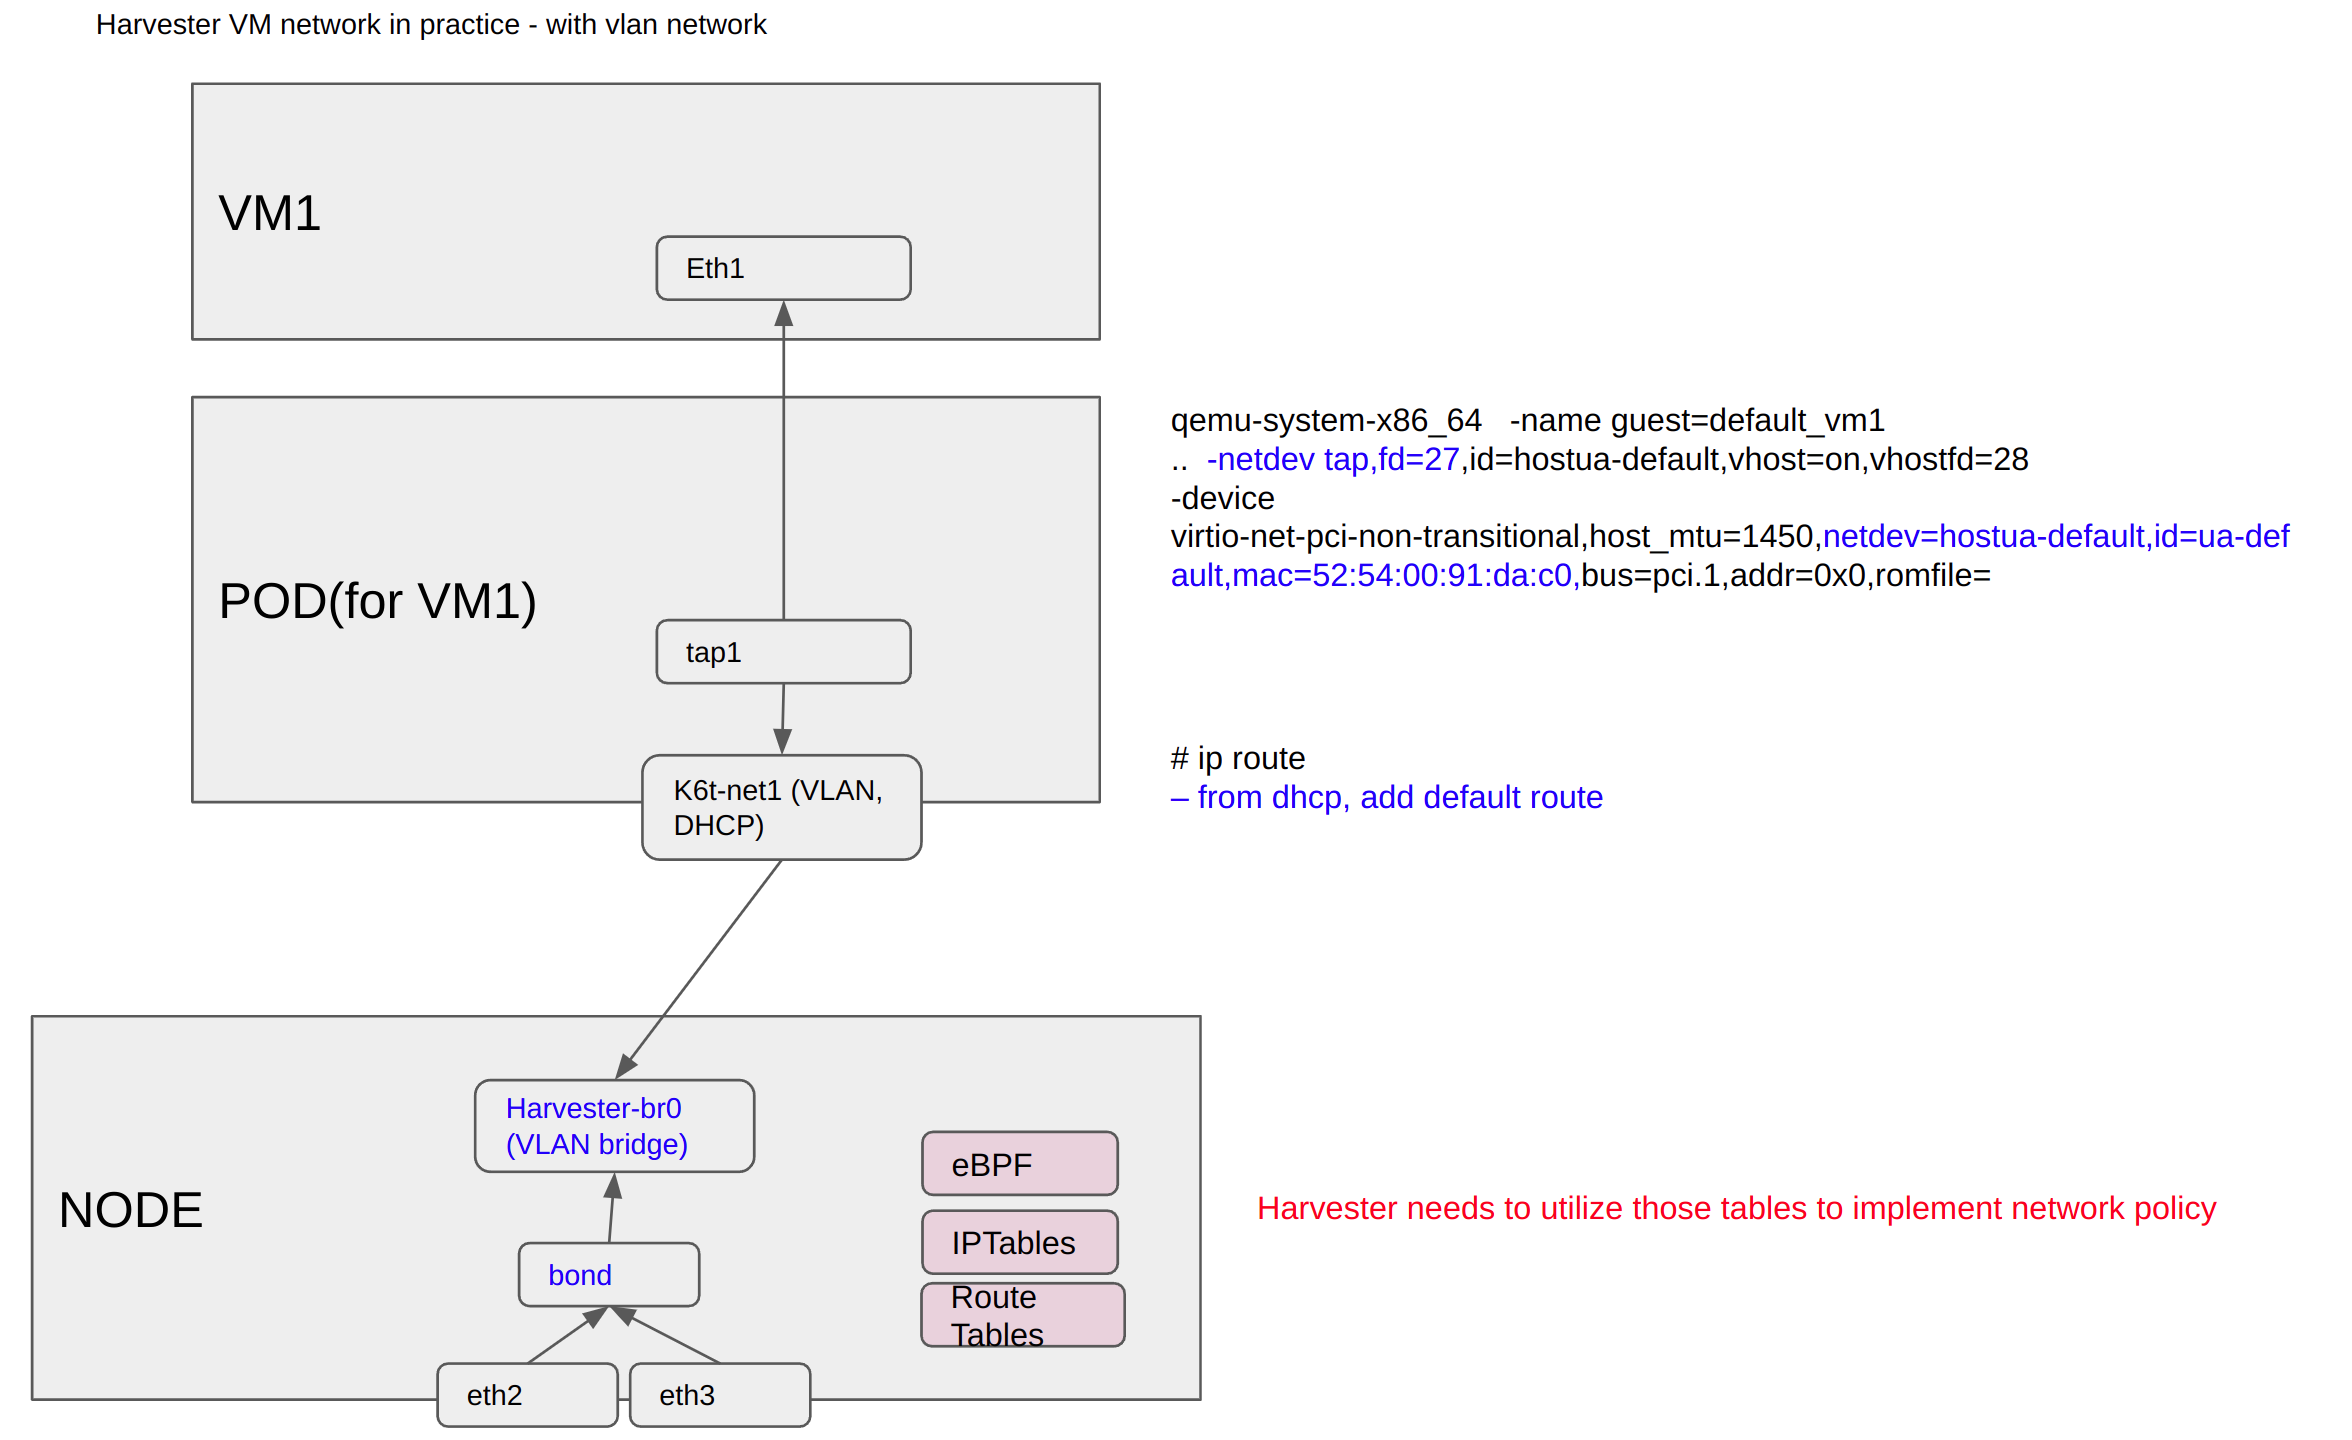
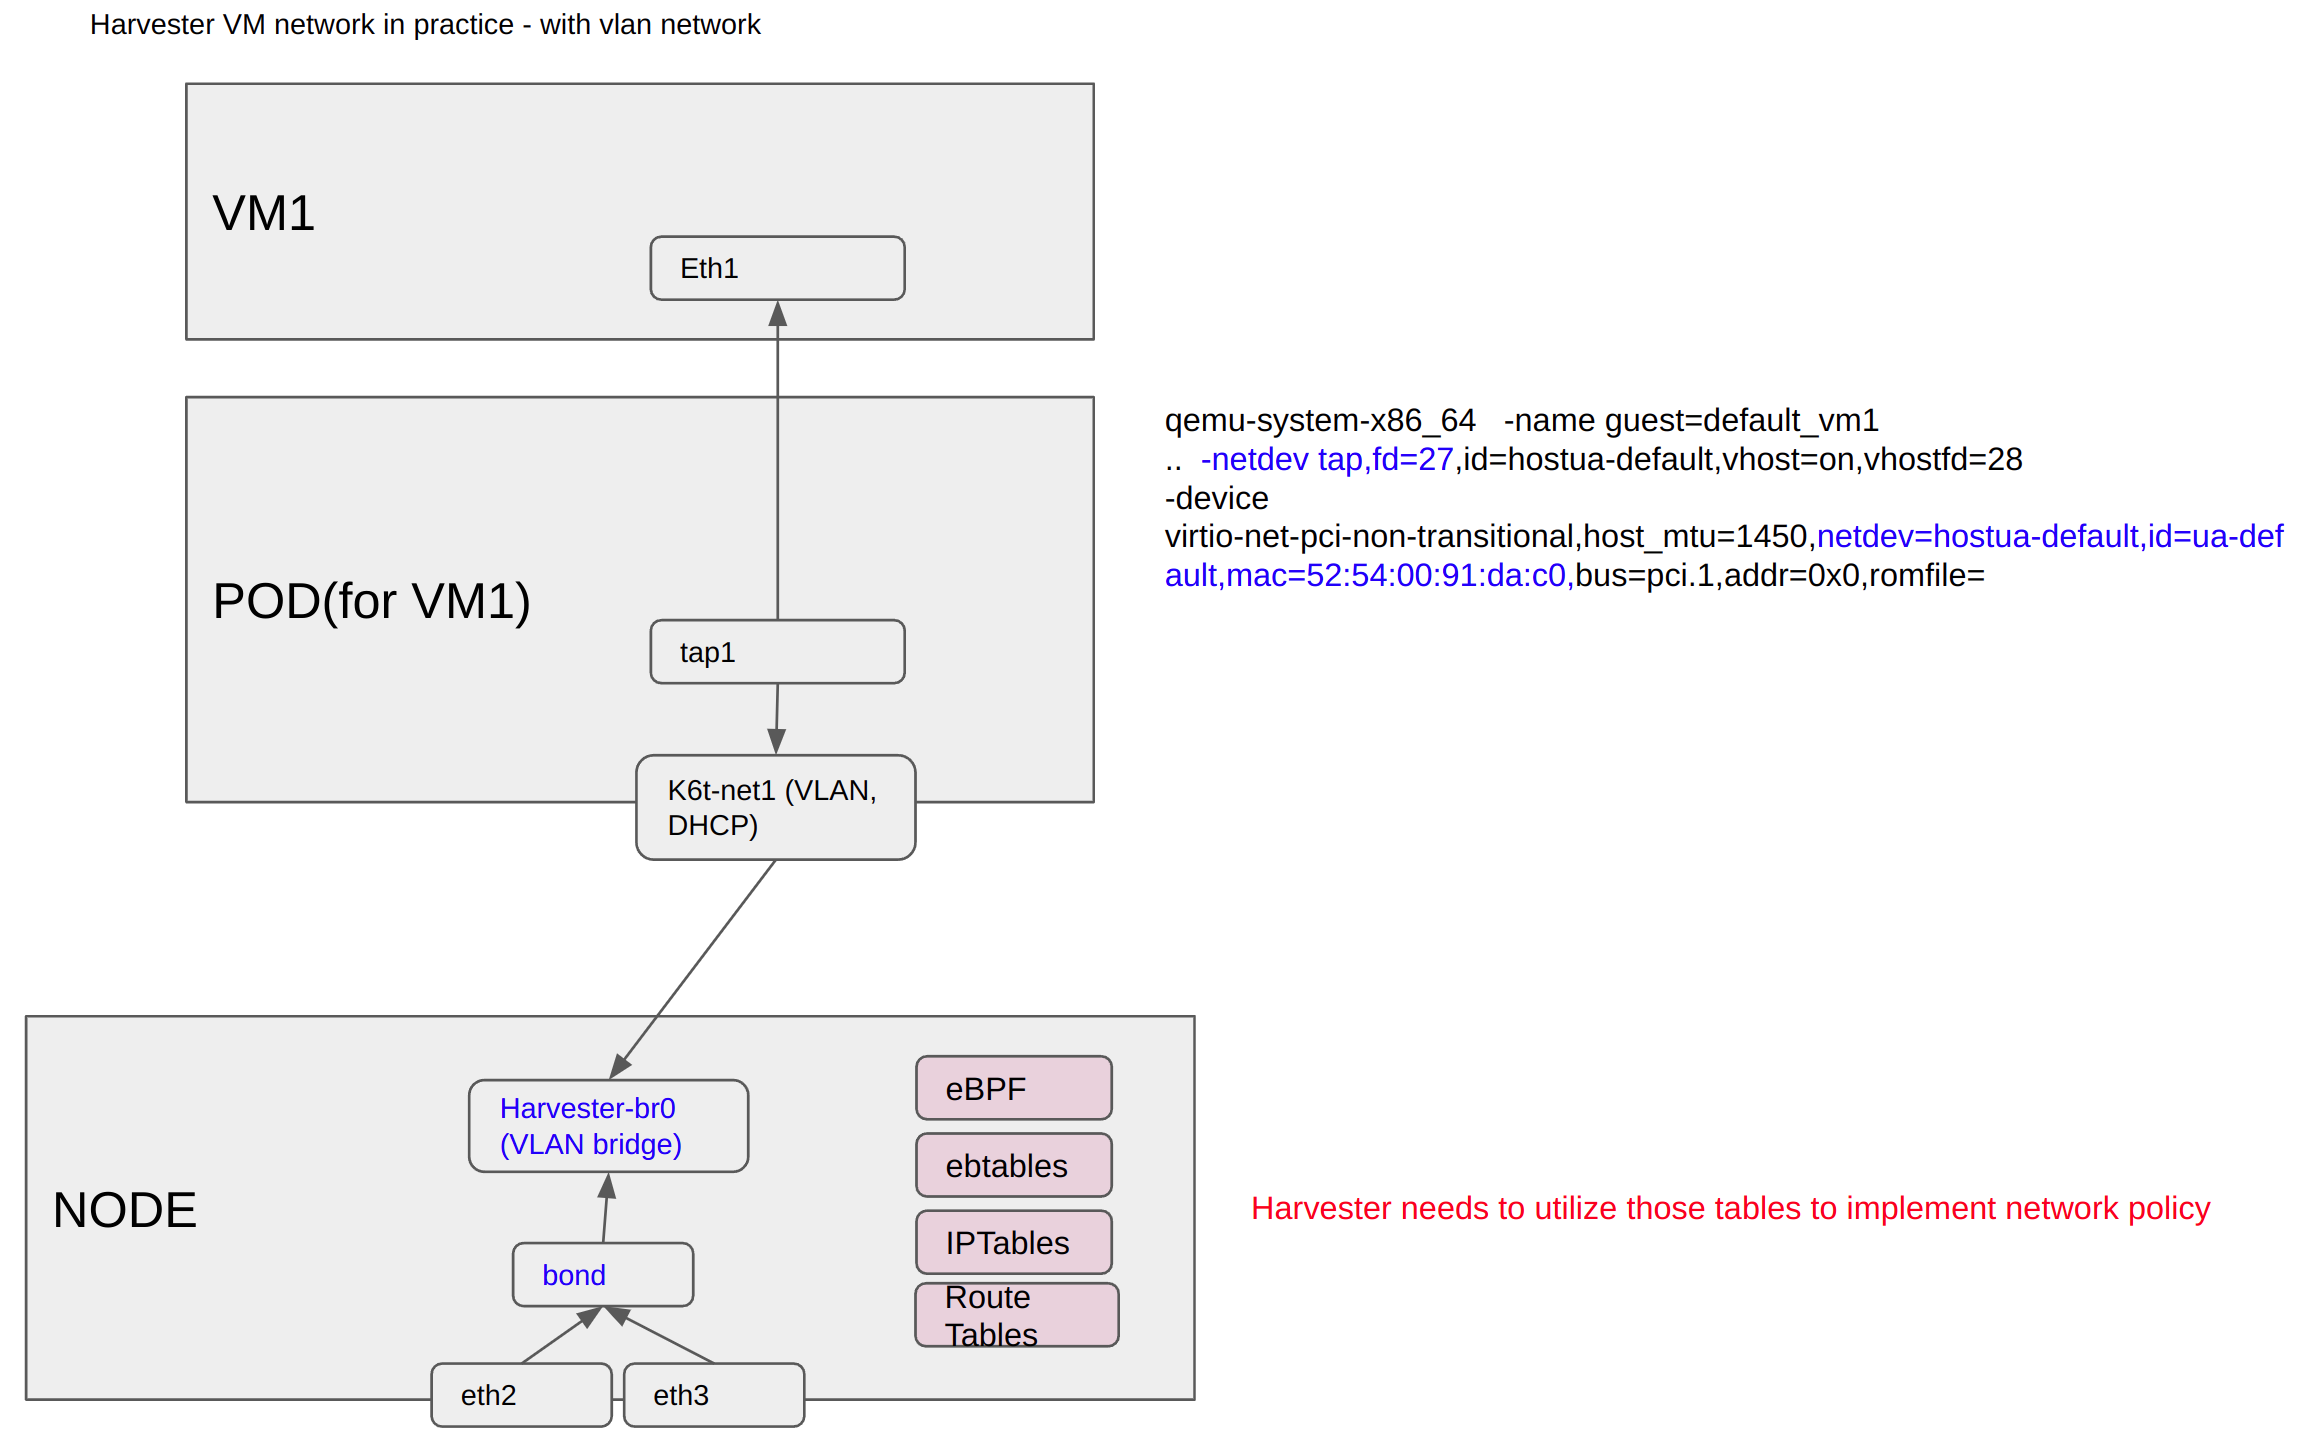
where to apply network policy and ebtables

diff --git a/enhancements/20220616-network-policy-enhancement.md b/enhancements/20220616-network-policy-enhancement.md
@@ -148,6 +148,16 @@ Suppose Harvester provisioned VM is using VLAN network. The network policy shoul
 
 ![](./20220616-network-policy-enhancement/harvester-vlan-network-policy-1.png)
 
+The Harvester VLAN network for VM.
+
+![](./20220616-network-policy-enhancement/harvester-vlan-network-policy-2.png)
+
+VM network policy sample.
+
+![](./20220616-network-policy-enhancement/harvester-vlan-network-policy-3.png)
+
+`ebtables` and `iptables` will be the tool for Harvester network policy in VLAN network.
+
 #### Story 4
 
 ##### Calico network policy
@@ -189,7 +199,101 @@ The `Cilium` network policy is based on `eBPF` .
 
 ### Implementation Overview
 
-.
+`ebtables` needs to be added into Harvester
+
+```
+  tools            Harvester NODE                    Harvester POD (for VM)
+
+  iptables         available, working                iptables v1.8.7 (legacy): can't initialize iptables table `filter': Permission denied (you must be root)
+  ebtables         command not found                 Problem getting a socket, you probably don't have the right permissions.
+
+
+harvester-node:~ # cat /proc/sys/net/bridge/bridge-nf-call-iptables
+0
+
+
+harvester-node:~ # lsmod | grep filter
+br_netfilter           28672  0
+bridge                225280  1 br_netfilter
+```
+
+ebtables/iptables interaction on a Linux-based bridge
+
+http://ebtables.netfilter.org/br_fw_ia/br_fw_ia.html
+
+
+
+```
+sudo ebtables --list
+
+Bridge table: filter
+
+Bridge chain: INPUT, entries: 0, policy: ACCEPT
+
+Bridge chain: FORWARD, entries: 0, policy: ACCEPT
+
+Bridge chain: OUTPUT, entries: 0, policy: ACCEPT
+```
+
+
+
+man ebtables
+
+Tables
+As stated earlier, there are three ebtables tables in the Linux kernel. The table names are filter, nat and broute. Of these three tables, the filter table is the default table that the command operates on. If you are working with the filter table, then you can drop the '-t filter' argument to the ebtables command. However, you will need to provide the -t argument for the other two tables. Moreover, the -t argument must be the first argument on the ebtables command line, if used.
+
+
+-p, --protocol [!] protocol
+The protocol that was responsible for creating the frame. This can be a hexadecimal number, above 0x0600, a name (e.g. ARP ) or LENGTH. The protocol field of the Ethernet frame can be used to denote the length of the header (802.2/802.3 networks). When the value of that field is below or equals 0x0600, the value equals the size of the header and shouldn't be used as a protocol number. Instead, all frames where the protocol field is used as the length field are assumed to be of the same 'protocol'. The protocol name used in ebtables for these frames is LENGTH.
+The file /etc/ethertypes can be used to show readable characters instead of hexadecimal numbers for the protocols. For example, 0x0800 will be represented by IPV4. The use of this file is not case sensitive. See that file for more information. The flag --proto is an alias for this option.
+
+-i, --in-interface [!] name
+The interface (bridge port) via which a frame is received (this option is useful in the INPUT, FORWARD, PREROUTING and BROUTING chains). If the interface name ends with '+', then any interface name that begins with this name (disregarding '+') will match. The flag --in-if is an alias for this option.
+
+--logical-in [!] name
+The (logical) bridge interface via which a frame is received (this option is useful in the INPUT, FORWARD, PREROUTING and BROUTING chains). If the interface name ends with '+', then any interface name that begins with this name (disregarding '+') will match.
+
+-o, --out-interface [!] name
+The interface (bridge port) via which a frame is going to be sent (this option is useful in the OUTPUT, FORWARD and POSTROUTING chains). If the interface name ends with '+', then any interface name that begins with this name (disregarding '+') will match. The flag --out-if is an alias for this option.
+
+--logical-out [!] name
+The (logical) bridge interface via which a frame is going to be sent (this option is useful in the OUTPUT, FORWARD and POSTROUTING chains). If the interface name ends with '+', then any interface name that begins with this name (disregarding '+') will match.
+
+
+
+-s, --source [!] address[/mask]
+The source MAC address. Both mask and address are written as 6 hexadecimal numbers separated by colons. Alternatively one can specify Unicast, Multicast, Broadcast or BGA (Bridge Group Address):
+Unicast=00:00:00:00:00:00/01:00:00:00:00:00, Multicast=01:00:00:00:00:00/01:00:00:00:00:00, Broadcast=ff:ff:ff:ff:ff:ff/ff:ff:ff:ff:ff:ff or BGA=01:80:c2:00:00:00/ff:ff:ff:ff:ff:ff. Note that a broadcast address will also match the multicast specification. The flag --src is an alias for this option.
+-d, --destination [!] address[/mask]
+The destination MAC address. See -s (above) for more details on MAC addresses. The flag --dst is an alias for this option.
+
+
+
+
+
+vlan
+Specify 802.1Q Tag Control Information fields. The protocol must be specified as 802_1Q (0x8100).
+--vlan-id [!] id
+The VLAN identifier field (VID). Decimal number from 0 to 4095.
+--vlan-prio [!] prio
+The user priority field, a decimal number from 0 to 7. The VID should be set to 0 ("null VID") or unspecified (in the latter case the VID is deliberately set to 0).
+--vlan-encap [!] type
+The encapsulated Ethernet frame type/length. Specified as a hexadecimal number from 0x0000 to 0xFFFF or as a symbolic name from /etc/ethertypes.
+
+ip
+Specify IPv4 fields. The protocol must be specified as IPv4.
+--ip-source [!] address[/mask]
+The source IP address. The flag --ip-src is an alias for this option.
+--ip-destination [!] address[/mask]
+The destination IP address. The flag --ip-dst is an alias for this option.
+--ip-tos [!] tos
+The IP type of service, in hexadecimal numbers. IPv4.
+--ip-protocol [!] protocol
+The IP protocol. The flag --ip-proto is an alias for this option.
+--ip-source-port [!] port1[:port2]
+The source port or port range for the IP protocols 6 (TCP), 17 (UDP), 33 (DCCP) or 132 (SCTP). The --ip-protocol option must be specified as TCP, UDP, DCCP or SCTP. If port1 is omitted, 0:port2 is used; if port2 is omitted but a colon is specified, port1:65535 is used. The flag --ip-sport is an alias for this option.
+--ip-destination-port [!] port1[:port2]
+The destination port or port range for ip protocols 6 (TCP), 17 (UDP), 33 (DCCP) or 132 (SCTP). The --ip-protocol option must be specified as TCP, UDP, DCCP or SCTP. If port1 is omitted, 0:port2 is used; if port2 is omitted but a colon is specified, port1:65535 is used. The flag --ip-dport is an alias for this option.
 
 
 ### Test plan
